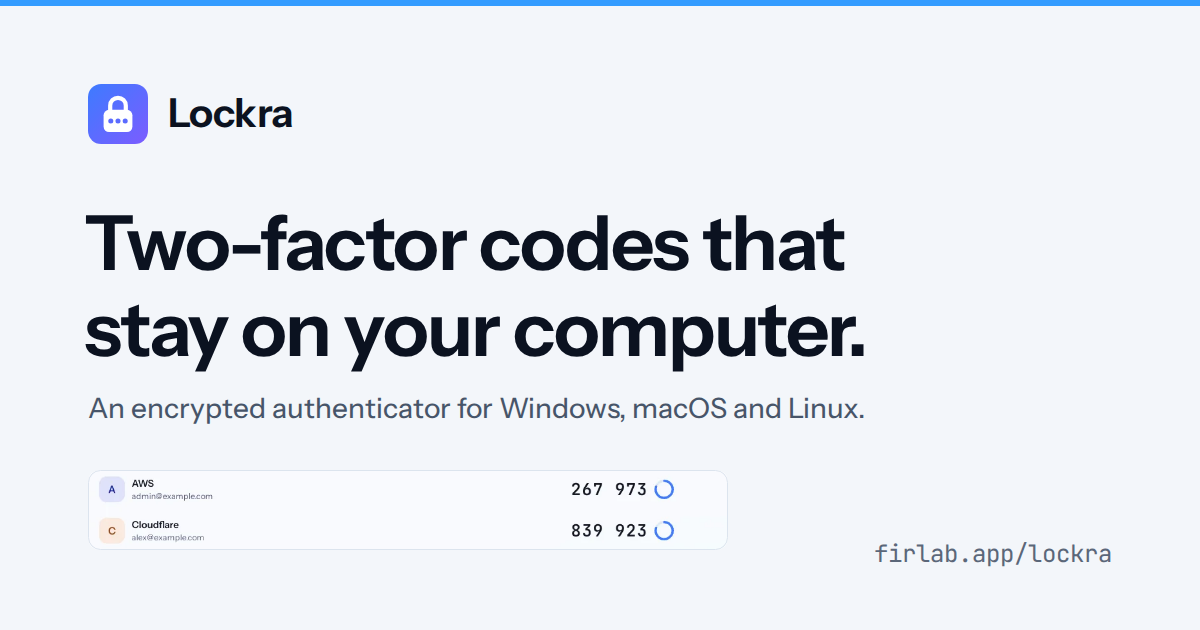
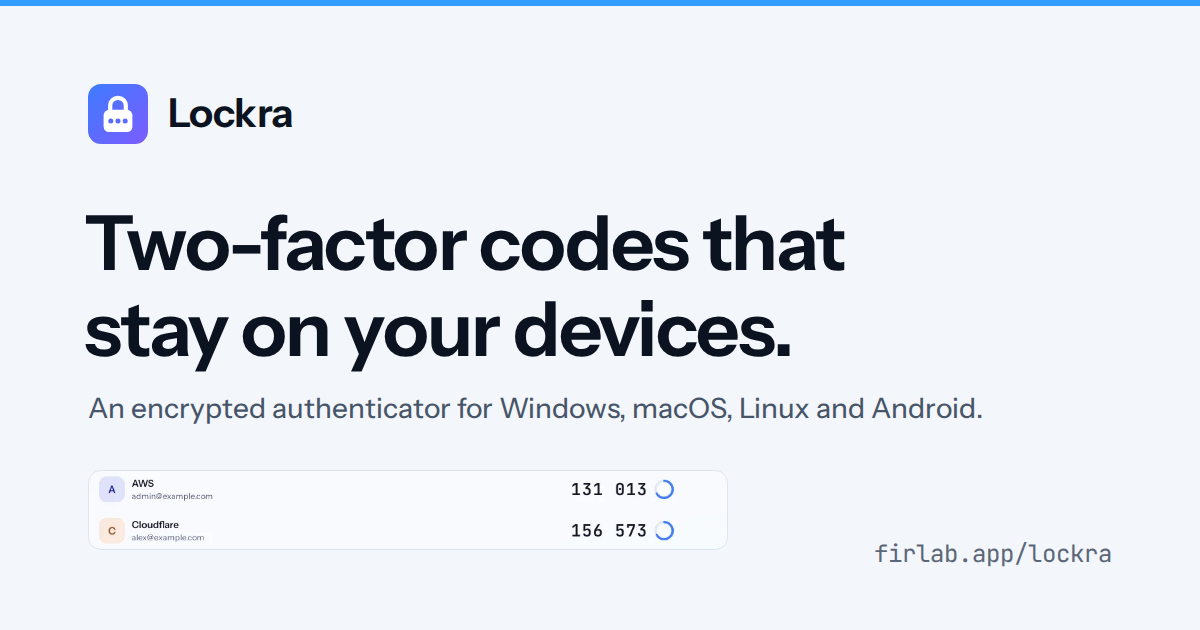
feat(lockra): 写明 Android 版，产品目录加上 Android 平台
Lockra 已支持 Windows、macOS、Linux 和 Android：产品目录的平台加上 Android（新增平台值 android），Lockra 的简介、文档站的页面描述和社交预览图改为四个平台与端到端加密同步，社交预览图重新渲染。

diff --git a/src/i18n/products.ts b/src/i18n/products.ts
@@ -23,7 +23,8 @@
  *     polish paths send audio or text to the service the user chose. Never write
  *     "nothing leaves your computer".
  *   - Lockra goes online for its own updates and, once the user sets it up, for
- *     sync through storage of their own. Never write "no network connections".
+ *     sync through storage of their own or a Lockra relay. Never write "no network
+ *     connections".
  *   - kiro-provider serves the user's own Kiro accounts. Never write that it shares,
  *     pools or resells access, gives free access, or gets around usage limits.
  *   - bedrock-gateway calls Bedrock with the user's own AWS account. Never write that it
@@ -74,10 +75,10 @@ export type Status = 'live' | 'early' | 'wip';
 
 export type Category = 'service' | 'cli' | 'desktop';
 
-export type Platform = 'windows' | 'macos' | 'linux' | 'docker';
+export type Platform = 'windows' | 'macos' | 'linux' | 'android' | 'docker';
 
 /** Canonical rendering order, whatever order an entry lists its platforms in. */
-export const PLATFORM_ORDER: readonly Platform[] = ['windows', 'macos', 'linux', 'docker'];
+export const PLATFORM_ORDER: readonly Platform[] = ['windows', 'macos', 'linux', 'android', 'docker'];
 
 export interface Product {
   id: ProductId;
@@ -226,7 +227,7 @@ export const products: Product[] = [
     id: 'lockra',
     name: 'Lockra',
     category: 'desktop',
-    platforms: ['windows', 'macos', 'linux'],
+    platforms: ['windows', 'macos', 'linux', 'android'],
     status: 'early',
     version: LOCKRA_VERSION,
     released: LOCKRA_RELEASED,
@@ -234,8 +235,8 @@ export const products: Product[] = [
     repo: 'https://github.com/sunerpy/lockra',
     page: { href: { 'zh-cn': '/lockra/zh/', en: '/lockra/' } },
     tagline: {
-      'zh-cn': '离线使用的两步验证器。验证码加密保存在本机，可选通过自己的存储在多台设备间同步。',
-      en: 'An offline two-factor authenticator. Codes are encrypted on your computer, with optional sync between devices through storage of your own.',
+      'zh-cn': '电脑和 Android 手机上的两步验证器。账号加密保存在每台设备上，可以经内置中继或你自己的存储端到端加密同步。',
+      en: 'A two-factor authenticator for your computers and your Android phone. Accounts are encrypted on each device, with optional end-to-end encrypted sync through the built-in relay or storage of your own.',
     },
   },
   {

diff --git a/lockra/src/.vitepress/config/zh.ts b/lockra/src/.vitepress/config/zh.ts
@@ -64,7 +64,7 @@ const sidebar: DefaultTheme.SidebarItem[] = [
 export const zh = defineConfig({
   lang: 'zh-CN',
   description:
-    'Lockra 把两步验证码保存在本机的一个加密文件中，适用于 Windows、macOS 和 Linux。可以在 Lockra 与 Google 身份验证器、Microsoft Authenticator 之间迁移账号，把加密备份写入你选择的文件夹，并经 Lockra 中继或你自己的存储，在多台设备之间端到端加密地同步。',
+    'Lockra 把两步验证码加密保存在每台设备上，适用于 Windows、macOS、Linux 和 Android。经 Lockra 中继或你自己的存储端到端加密同步，每台设备上的账号保持一致；可以在 Lockra 与 Google 身份验证器、Microsoft Authenticator 之间迁移账号，并把加密备份写入你选择的文件夹。',
 
   themeConfig: {
     nav: [

diff --git a/lockra/src/.vitepress/config/en.ts b/lockra/src/.vitepress/config/en.ts
@@ -64,7 +64,7 @@ const sidebar: DefaultTheme.SidebarItem[] = [
 export const en = defineConfig({
   lang: 'en-US',
   description:
-    'Lockra keeps your two-factor codes in one encrypted file on your computer, for Windows, macOS and Linux. Move accounts from and to Google Authenticator and Microsoft Authenticator, keep encrypted backups in a folder you choose, and sync your devices, end-to-end encrypted, through a Lockra relay or storage of your own.',
+    'Lockra keeps your two-factor codes in an encrypted file on each of your devices: Windows, macOS, Linux and Android. Sync keeps the same accounts on every device, end-to-end encrypted, through a Lockra relay or storage of your own; move accounts from and to Google Authenticator and Microsoft Authenticator, and keep encrypted backups in a folder you choose.',
 
   themeConfig: {
     nav: [

diff --git a/src/i18n/ui.ts b/src/i18n/ui.ts
@@ -87,6 +87,7 @@ const zh = {
   'platform.windows': 'Windows',
   'platform.macos': 'macOS',
   'platform.linux': 'Linux',
+  'platform.android': 'Android',
   'platform.docker': 'Docker',
 
   'card.repo': '{name} 的 GitHub 仓库',
@@ -156,6 +157,7 @@ const en: Record<keyof typeof zh, string> = {
   'platform.windows': 'Windows',
   'platform.macos': 'macOS',
   'platform.linux': 'Linux',
+  'platform.android': 'Android',
   'platform.docker': 'Docker',
 
   'card.repo': '{name} on GitHub',

diff --git a/lockra/src/.vitepress/config/shared.ts b/lockra/src/.vitepress/config/shared.ts
@@ -44,7 +44,7 @@ const CODE_CONTRAST: Record<'light' | 'dark', Record<string, string>> = {
 
 export const shared = defineConfig({
   title: 'Lockra',
-  description: 'Two-factor codes that stay on your computer. Windows, macOS and Linux.',
+  description: 'Two-factor codes that stay on your devices. Windows, macOS, Linux and Android.',
   lang: 'en-US',
   base: BASE,
 
